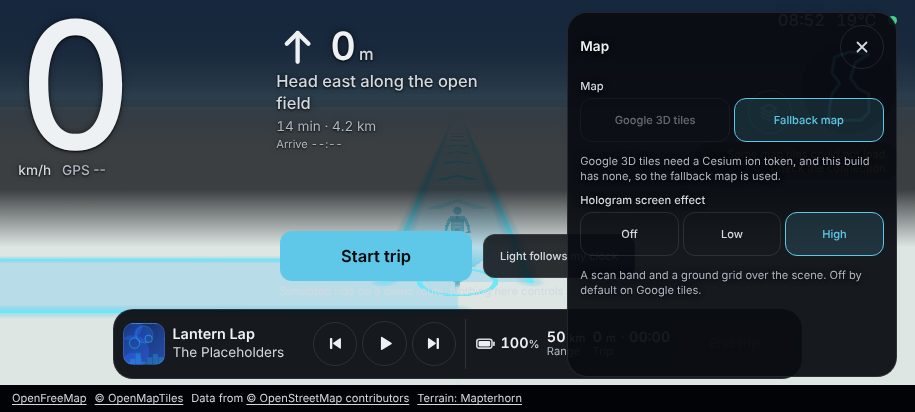
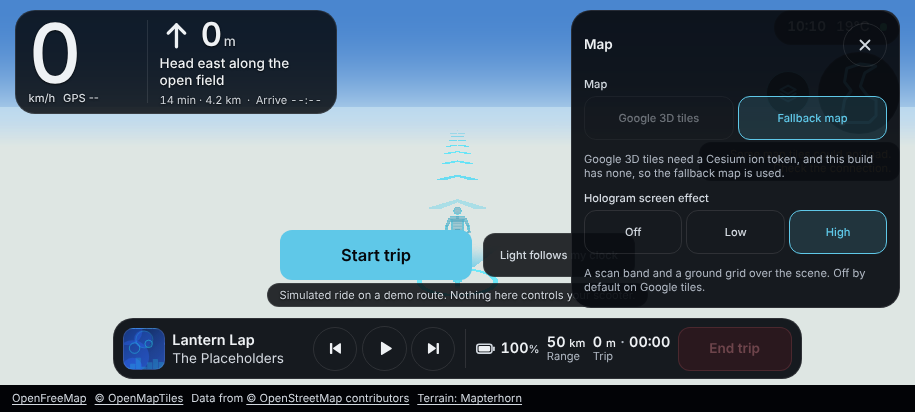
docs: describe the HUD redesign, the plates and the readability checks, and re-shoot the screenshots
DESIGN_SYSTEM, ARCHITECTURE and CHANGELOG describe the plates in place of the scrim, the removed vignette and haze, the new type sizes, HudFrame, the dev preview HUD and the extended layout check. The screenshots in docs/images were re-shot from procedural scenes and the fallback map without tiles, with new hud-preview images. No speed limit sign was added because there is no speed limit data in milestone 1. The redesign used Opus 5.5 at the maintainer's request as a one-off exception to Amendment 2.

diff --git a/docs/DESIGN_SYSTEM.md b/docs/DESIGN_SYSTEM.md
@@ -6,8 +6,8 @@ The tokens live in [`packages/ui-tokens`](../packages/ui-tokens). `src/tokens.ts
 
 ## Principles
 
-1. **The world leads, the HUD supports.** The scene is the whole screen. The HUD is bare text and a few flat panels. If something competes with the road, make it smaller or quieter.
-2. **Glanceable first.** The vehicle speed is the biggest thing on the screen, set as a bare number with tight letter spacing. Distance to the next turn is next. Secondary text is smaller and in muted grey.
+1. **The world leads, the HUD supports.** The scene is the whole screen and nothing darkens it: no scrim, no gradient across the screen, no vignette. The HUD is a few small pieces of dark glass, each only as big as what it holds, at the corners and along the bottom. If something competes with the road, make it smaller or quieter.
+2. **Glanceable first.** The vehicle speed is the biggest number on the screen, set with tight letter spacing. Distance to the next turn is next. Secondary text is smaller and in muted grey.
 3. **One accent.** Soft cyan (`cyan`, `#5fc8e8`) is the only non-warning accent: the route on the minimap, progress, active states and the heading. It is never used as decoration.
 4. **Colour has a job.** Amber and red are allowed for warnings and errors (Amendment 6). Amber (`caution`, a muted amber that suits the dark theme) is for warnings: the telemetry lost note, the GPS fallback label, offline, low battery and safety notices. Red is for errors and for End trip, as a dark red fill, a muted red outline and soft red text. Green is only the small online dot. Never use amber or red as decoration.
 5. **No glow, no heavy blur on the HUD.** HUD panels are flat, about 85 percent opaque, with a hairline border and no backdrop blur, so they stay cheap on a mid-range phone. Glow tokens are kept for the 3D scene's route and heading marker, and for the keyboard focus ring.
@@ -41,7 +41,7 @@ The tokens live in [`packages/ui-tokens`](../packages/ui-tokens). `src/tokens.ts
 
 The default Tailwind palette is switched off, so classes like `bg-red-500` do not exist. Use the token names above, for example `bg-night-950`, `text-text-secondary` or `border-glass-border`.
 
-Contrast on `night-950` (WCAG 2): `text` 17.8:1, `text-secondary` 14.2:1, `text-muted` 10.1:1, `cyan` 10.5:1, `caution` 10.3:1, `danger` 8.2:1. On `night-800` panels they are 16.0, 12.8, 9.1, 9.4, 9.2 and 7.4. All pass AA for body text. Dark text on `cyan` buttons is 10.5:1. The secondary and muted greys were brightened (from `#a4acb7` and `#747d89`) after a device test showed them unreadable on a bright sky. Text drawn straight on the 3D scene is also held up by the top scrim and a text shadow, see "Text on the scene" below.
+Contrast on `night-950` (WCAG 2): `text` 17.8:1, `text-secondary` 14.2:1, `text-muted` 10.1:1, `cyan` 10.5:1, `caution` 10.3:1, `danger` 8.2:1. On `night-800` panels they are 16.0, 12.8, 9.1, 9.4, 9.2 and 7.4. All pass AA for body text. Dark text on `cyan` buttons is 10.5:1. The secondary and muted greys were brightened (from `#a4acb7` and `#747d89`) after a device test showed them unreadable on a bright sky. Text over the 3D scene sits on its own small plate, see "Text on the scene" below.
 
 ## Typography
 
@@ -57,14 +57,14 @@ Waylit uses the platform's system UI font (`font.sans`). It is legible at small 
 | `2xl` | `text-2xl` | 1.953rem | Large readouts on ordinary pages |
 | `3xl` | `text-3xl` | 2.441rem | Secondary readouts |
 | `display` | `text-display` | 4rem | Page titles on the home screen |
-| `speed` | `text-speed` | `min(43dvh, 21vw)` | Vehicle speed on the riding screen |
-| `hudTurn` | `text-hud-turn` | `clamp(1.5rem, 9.5dvh, 3.5rem)` | Distance to the next turn |
+| `speed` | `text-speed` | `clamp(3rem, 20dvh, 6.5rem)` | Vehicle speed on the riding screen |
+| `hudTurn` | `text-hud-turn` | `clamp(1.25rem, 8dvh, 2.5rem)` | Distance to the next turn |
 | `hudLg` | `text-hud-lg` | `clamp(0.875rem, 4dvh, 1.3rem)` | Street instruction, clock, temperature |
 | `hudDock` | `text-hud-dock` | `clamp(0.8rem, min(3.5dvh, 1.9vw), 1.2rem)` | Values in the dock, which is the tightest row |
 | `hudMd` | `text-hud-md` | `clamp(0.75rem, 3.3dvh, 1.05rem)` | Time and distance left, labels, speed unit |
 | `hudSm` | `text-hud-sm` | `clamp(0.6875rem, 2.7dvh, 0.875rem)` | Captions, arrival time, credits |
 
-The base scale is a major third (1.25) from a 1rem base. The riding screen uses the fluid `speed` and `hud*` sizes instead, which scale with the viewport (`dvh` and `vw`) so one set of values fits every landscape phone without clipping. At 915 by 412 the speed is about 177 px tall type, and its digits are about 30 percent of the screen height.
+The base scale is a major third (1.25) from a 1rem base. The riding screen uses the fluid `speed` and `hud*` sizes instead, which scale with the viewport (`dvh` and `vw`) so one set of values fits every landscape phone without clipping. At 915 by 412 the speed is about 82 px tall type, and its digits are about 15 percent of the screen height: large enough for a glance, small enough to leave the scene clear (it was about 30 percent before the redesign of 2026-11-26).
 
 Line heights are `tight` (1.1) for display numbers, `snug` (1.3) for headings and `normal` (1.5) for body. Weights are 400, 500, 600 and 700. The speed number is weight 500 with `tracking-speed` (-0.05em) and a line height under 1. Other display text uses `tracking-display` (-0.02em). Use `tabular-nums` on any number that updates live, so digits do not jump.
 
@@ -102,23 +102,24 @@ The HUD uses no blur and no glow. The `.wl-glass` component class is a flat tran
 
 ## Text on the scene
 
-The speed, turn, time and temperature are bare text on the 3D scene, which can be a bright blue sky or sunlit pale ground. Three flat, cheap measures keep them readable. There is no blur and no filter, so they cost almost nothing on a mid range phone.
+The scene can be a bright blue sky, sunlit pale ground or a dark street, and it is never darkened to help the HUD. There is no screen wide scrim, no gradient across the screen and no vignette (a rider found the old daylight scrim, a dark gradient over the top 60 percent of the screen, jarring). Readability comes only from local aids, each the size of the thing it helps:
 
 | Token | CSS variable | Value | Use |
 |---|---|---|---|
-| `scrim.night` | `--wl-scrim-night` | `0.35` | Strength of the top scrim in the dark |
-| `scrim.day` | `--wl-scrim-day` | `0.75` | Strength in full daylight |
-| `scrim.solid` | `--wl-scrim-solid` | `46dvh` | The scrim is at full strength down to here |
-| `scrim.fade` | `--wl-scrim-fade` | `60dvh` | and fades to nothing here |
-| `shadow.text` | `--wl-shadow-text` | `0 1px 2px rgba(0, 0, 0, 0.85), 0 0 6px rgba(0, 0, 0, 0.55)` | A tight dark outline plus a soft halo on text over the scene |
+| `plate.night` | `--wl-plate-night` | `0.74` | Opacity of a text plate in the dark |
+| `plate.day` | `--wl-plate-day` | `0.84` | Opacity in full daylight |
+| `shadow.text` | `--wl-shadow-text` | `0 0 1px rgba(0, 0, 0, 0.9), 0 1px 2px rgba(0, 0, 0, 0.6)` | A tight edge on glyphs, two pixels at most |
 
-- **The scrim** (`.wl-scrim`, one element between the scene and the HUD) is a linear gradient from the `night950` colour to transparent behind the top of the screen. Its strength is `night + (day - night) * --wl-daylight`, so it is faintest in the dark and strongest in full sun, and it follows the sun through dawn and dusk. It is solid down to 46 percent of the screen height because the speed unit and GPS label sit at 41 to 44 percent. It passes touches through.
-- **The shadow** (`.wl-hud-text`) is on the top left navigation text and the top right status text. It is never used on panels.
-- **Contrast.** `apps/web/src/hud/contrast.test.ts` computes the WCAG ratio of every piece of top text, at its lowest edge, behind the scrim, against the day palette and sky colours from the scene lighting, a pale sunlit photographic ground, pure white and a cyan edge glow at night. Small text must reach 4.5:1 and large text (the speed and the turn distance) 3:1. The ground sample is an assumed worst case, and has not been measured on a real Google tile screenshot.
+- **Plates** (`.wl-plate`). Each group of text over the scene sits on its own small plate of dark glass (`night950`), sized to the text: the speed and turn card top left, the status chip top right, the start caption, the map note and the dev overlay. The map settings button also sits on a plate so its icon reads on a bright sky. The opacity is `night + (day - night) * --wl-daylight`, one flat fill with a hairline border, no blur and no gradient, so it costs almost nothing on a mid range phone. The plate is a little more solid in sunlight and a little lighter at night.
+- **Glass** (`.wl-glass`). The dock, the minimap and the map settings sheet keep their own glass fill, which covers only the panel itself.
+- **Text edge** (`.wl-hud-text`). A tight dark edge on the glyphs of plate text keeps them crisp in glare. It is never used as a backdrop.
+- **Adaptive colour.** Text over the scene uses only `text`, `text-secondary`, `caution` and `cyan`. Muted grey is for panels only. The turn arrow turns cyan when the turn is imminent.
+- **Contrast.** The plate's floor is chosen so that every text colour allowed on it passes WCAG AA over pure white, which is brighter than anything the scene can draw. `apps/web/src/hud/readability.test.ts` checks every text colour at daylight 0, 0.25, 0.5, 0.75 and 1 against pure white, pure black, the day palette and sky, a pale sunlit photographic ground (#e8e4d8, an assumed worst case, not measured on a real Google tile screenshot), the night palette and the bright hologram cyan, and the dock text on night and day glass. The layout check (`apps/web/scripts/layout-check.mjs`) does the same in Chrome with the colours the browser computed, while riding, at five sizes. The lowest ratios (night plate over pure white) are: `text` 8.2:1, `text-secondary` 6.5:1, `caution` 4.7:1 and `cyan` 4.8:1. Over pure black they are all above 10:1.
+- **Guard.** `apps/web/src/hud/no-screen-darkening.test.ts` fails if a scrim, a screen wide gradient, a full screen fill, a vignette or a wide text shadow comes back, in the CSS, the components, the tokens or the scene's post process. The layout check also fails if anything but the scene, the credits strip or an opened dialog paints more than 20 percent of the screen or a band across it.
 
 ## Futuristic look
 
-The 3D scene has a screen space colour grade and edge glow (see [ARCHITECTURE.md](ARCHITECTURE.md), "Visual effects and the Google terms"). It keeps the palette: deep navy and teal, controlled contrast, slight desaturation, with the cyan accent as the edge glow and nothing else coloured. Day is cooler and cleaner, sunset a warm magenta to cyan split tone, night deep blue with glowing cyan edges. It is a HUD-free effect on the scene only, the HUD palette does not change. Original screenshots from the procedural preview scene (not Google tiles): [noon](images/fx-preview-noon.png), [sunset](images/fx-preview-sunset.png), [night](images/fx-preview-night.png) and [night with the effect off](images/fx-preview-night-off.png).
+The 3D scene has a screen space colour grade and edge glow (see [ARCHITECTURE.md](ARCHITECTURE.md), "Visual effects and the Google terms"). It keeps the palette: deep navy and teal, controlled contrast, slight desaturation, with the cyan accent as the edge glow and nothing else coloured. It never darkens by screen position: the vignette and the horizon haze band were removed in the HUD redesign, so the corners and the middle of the picture stay as bright as the scene. With the effect on, night photographic tiles are dimmed to about a third and tinted cool, never crushed toward black. Day is cooler and cleaner, sunset a warm magenta to cyan split tone, night deep blue with glowing cyan edges. It is a HUD-free effect on the scene only, the HUD palette does not change. Original screenshots from the procedural preview scene (not Google tiles): [noon](images/fx-preview-noon.png), [sunset](images/fx-preview-sunset.png), [night](images/fx-preview-night.png) and [night with the effect off](images/fx-preview-night-off.png).
 
 ## Hologram guidance
 
@@ -152,14 +153,14 @@ The riding screen is landscape first. Phones in landscape can be as short as 360
 
 ## Riding screen layout
 
-Built in `apps/web/src/app/ride/page.tsx` and `apps/web/src/hud/`. The scene fills the whole screen and the HUD floats on it. There are no solid bars. The HUD is a grid of three rows: the top area (which grows), the dock, and the credits strip. It was checked at 915 by 412 (Samsung Galaxy A35 in landscape, in CSS pixels), 915 by 422 (the A35's 2340 by 1080 pixels at its device pixel ratio, which is the fullscreen height), 740 by 360, 667 by 375, 800 by 360 and 1280 by 720, in the start, riding, telemetry lost and summary states.
+Built in `apps/web/src/app/ride/page.tsx`, with the layout in `apps/web/src/hud/HudFrame.tsx` (shared with the dev preview) and the parts in `apps/web/src/hud/`. The scene fills the whole screen and the HUD floats on it. There are no solid bars and no darkening layer. The HUD is a grid of three rows: the top area (which grows), the dock, and the credits strip. It was checked at 915 by 412 (Samsung Galaxy A35 in landscape, in CSS pixels), 915 by 422 (the A35's 2340 by 1080 pixels at its device pixel ratio, which is the fullscreen height), 740 by 360, 667 by 375, 800 by 360 and 1280 by 720, in the start, riding, telemetry lost and summary states.
 
 | Area | Content |
 |---|---|
-| Top left, no card | The vehicle speed as a bare, very large number (the biggest element, digits about 30 percent of the screen height). Under it, small: `km/h` and `GPS 17`, the GPS speed shown separately. Beside it: the next turn arrow, the distance to the turn in large type, the street instruction, then a smaller grey `9 min · 2.4 km` (time and distance left) and a small `Arrive 14:35` |
-| Top right | Local time and temperature (mock weather) as plain text, a small connectivity dot (green online, amber offline), and a round plain SVG minimap about 84 px across at 800 wide: route line, position dot and a heading cone. No tiles and no map data |
-| Centre | Clear for the 3D scene. A dark gradient until task 8. The start prompt (the Start trip button, a "Light follows my clock" or "Real sun at the route" switch beside it, and a caption) appears low in the clear middle before a trip, and the dev controls (development and `?dev=1` only) sit below it. They are always one row of 44 px buttons, so nothing overlaps at any landscape size, and the Time button swaps that row for the time override page (Back, Live, Dawn, Noon, Sunset, Night, a time slider and a date field) |
-| Dock | One joined glass dock, 20 px corners, sized to its content and centred at the bottom with margin on both sides (never wider than 80 percent of the screen, or 42rem on small phones where the content needs it), with a hairline divider between two halves. Left: artwork tile, title and artist, previous, play or pause, next, and a thin progress line along the bottom of the half. Right: battery icon and percent, range, trip distance and time (`3.2 km · 12:40`), and End trip at the far right |
+| Top left, one plate | The speed and the next turn on one small plate of dark glass, sized to the text. Left: the vehicle speed (the biggest number, digits about 15 percent of the screen height), and under it, small: `km/h` and `GPS 17`, the GPS speed shown separately, and the amber telemetry note when it applies. A hairline divider. Right: the turn arrow (cyan when the turn is imminent) and the distance to the turn, the street instruction, then one quiet line with the time and distance left and `Arrive 14:35` |
+| Top right | A status chip on a plate: local time, mock temperature and a small connectivity dot (green online, amber offline). Under it, the map settings button on its own plate beside a round plain SVG minimap about 82 px across at 915 by 412: route line, position dot and a heading cone. No tiles and no map data. The dev overlay and the quiet map note sit under the minimap and stop above the centre row |
+| Centre | Clear for the 3D scene, with nothing drawn over it. The start prompt (the Start trip button, a "Light follows my clock" or "Real sun at the route" switch beside it, and a caption) appears low in the clear middle before a trip, and the dev controls (development and `?dev=1` only) sit below it. They are always one row of 44 px buttons, so nothing overlaps at any landscape size, and the Time button swaps that row for the time override page (Back, Live, Dawn, Noon, Sunset, Night, a time slider and a date field) |
+| Dock | One joined glass dock, 20 px corners, about 15 percent of the screen height, sized to its content and centred at the bottom with margin on both sides (never wider than 80 percent of the screen, or 42rem on small phones where the content needs it), with a hairline divider between two halves. Left: artwork tile, title and artist, previous, play or pause, next, and a thin progress line along the bottom of the half. Right: battery icon and percent, range, trip distance and time (`3.2 km · 12:40`), and End trip at the far right |
 | Credits strip | The reserved credits row below the dock: a darker band that nothing overlaps, holds the scene's attributions: the Google logo, data credits and Cesium ion logo with CesiumJS, or OpenFreeMap, OpenMapTiles and OpenStreetMap contributors with the fallback. The scene renders them into the strip and the HUD never covers it. Its minimum height follows the screen height (`clamp(1.5rem, 6.5dvh, 2rem)`) and grows with its content. A faint placeholder label shows only in development or with `?dev=1`, until the scene is ready |
 
 Rules for this screen:
@@ -170,15 +171,19 @@ Rules for this screen:
 - **Speed guard.** Above 8 km/h the media controls and End trip need a hold (0.6 s, and 0.9 s for End trip). The guard switches off below 5 km/h.
 - **Hold feedback that does not need animation.** While the guard is on, each media button shows a ring track that says a hold is needed. While a button is held the ring fills over the hold time, the button takes a cyan edge and a stronger fill, and the artist line says "Keep holding". End trip says "Hold to end", grows a red fill while held, and says "Keep holding". With reduced motion the ring and fill skip the growth and show complete as soon as the hold starts, so the filled state and the caption are still there.
 - **Missing data shows dashes**, never zero. An amber note with a small icon under the speed says when GPS is standing in for the scooter, and the GPS speed label turns amber.
-- **Plain text, no cards.** The speed, turn, time and temperature have no panel behind them. Only the dock, the minimap and the dev controls are panels.
+- **Small glass, never a backdrop.** The speed and turn card, the status chip and the map settings button sit on plates sized to their content, and the dock, minimap and dev controls are glass panels. Nothing paints across the screen apart from the credits strip.
 - **Minimap.** Plain drawn route only. While riding it follows the rider with the heading up, shows a clear heading cone (a 34 unit wedge opening 32 degrees either side, a gradient fill from 80 to 20 percent cyan with an outline), and a small N on the rim. Before and after a trip it shows the whole route inside the circle, north up.
-- **Contrast.** The speed uses `text` (17.8:1 on `night-950`). The top text sits on the daylight driven scrim with a text shadow (see "Text on the scene"). The dock is more solid in daylight and fades smoothly with the sun. Sunlight readability on a real screen still needs a check on the phone.
+- **Contrast.** The top text sits on its plate (see "Text on the scene") and passes AA over pure white. The dock is more solid in daylight and fades smoothly with the sun. Sunlight readability on a real screen still needs a check on the phone.
 - **Fluid type.** Sizes use `clamp` with `dvh` and `vw` (see Typography). The dock values also scale with width, because the dock is the tightest row. The dock is sized to its content. The track title block has a fixed fluid width (about 15 percent of the screen width, at least 7.75 rem), so the dock does not change width from track to track, and at 667 by 375 the longest mock title still fits whole and a long artist line ends in an ellipsis. Neither pushes the media buttons or End trip off the screen, and nothing else clips.
-- **Reduced motion.** See hold feedback above. The offline pulse stops. Nothing else on this screen animates.
+- **Motion.** The plates and the dock settle in when the screen appears (`.wl-enter`: a 360 ms fade and a 6 pixel rise, the dock 80 ms later), and the turn arrow fades to cyan when the turn is imminent.
+- **Reduced motion.** See hold feedback above. The offline pulse and the entrance stop. Nothing else on this screen animates.
+- **No speed limit sign yet.** There is no road speed limit data in milestone 1 (speed zones are phase 4, out of scope), so no sign is drawn and none is invented. A small sign under the speed is a later item for when speed zone data exists.
 - **Copy.** Sentence case, no emoji, no em dashes. Speed in km/h, distances under 1 km in metres rounded to 10 m, longer ones in km with one decimal, 24 hour time.
 - **Variants.** `short:` is for screens up to 520 px tall and `tight:` is for up to 400 px tall. The riding screen no longer needs them because its sizes are fluid, and they remain for other screens.
 
-Screenshots of the screen, taken from a production build with headless Chrome, are in [`docs/images/`](images/): [riding at 915 by 412](images/ride-915x412-riding.png), [start at 915 by 412](images/ride-915x412-start.png), [telemetry lost at 915 by 412](images/ride-915x412-fallback.png) (taken with `?dev=1`, so the dev controls show) and [riding at 1280 by 720](images/ride-1280x720-riding.png) and [the trip summary at 915 by 412](images/ride-915x412-summary.png). The same screen with the dev time override at [dawn](images/ride-915x412-dawn.png), [noon](images/ride-915x412-noon.png), [sunset](images/ride-915x412-sunset.png) and [night](images/ride-915x412-night.png), taken at 915 by 412 with `?dev=1&time=dawn` and so on, for Berlin on 25 November. Day shows the dock at its most solid and a bluer scene, sunset and dawn show the warm glow at the horizon and a mid fill, and night is the darkest with the most see-through dock.
+Screenshots of the screen, taken from a production build with headless Chrome, are in [`docs/images/`](images/): [riding at 915 by 412](images/ride-915x412-riding.png), [start at 915 by 412](images/ride-915x412-start.png), [telemetry lost at 915 by 412](images/ride-915x412-fallback.png) (taken with `?dev=1`, so the dev controls show) and [riding at 1280 by 720](images/ride-1280x720-riding.png) and [the trip summary at 915 by 412](images/ride-915x412-summary.png). The same screen with the dev time override at [dawn](images/ride-915x412-dawn.png), [noon](images/ride-915x412-noon.png), [sunset](images/ride-915x412-sunset.png) and [night](images/ride-915x412-night.png), taken at 915 by 412 with `?dev=1&time=dawn` and so on, for Berlin on 25 November. Day shows the dock at its most solid and a bluer scene, sunset and dawn show the warm glow at the horizon and a mid fill, and night is the darkest with the most see-through dock. These were re-shot for the HUD redesign on 26 November 2026. In headless Chrome the fallback map's tiles do not load, so the scene there is the sky, the light and the hologram only.
+
+The redesigned HUD over the procedural preview scene (`/dev/holo-preview?dev=1&hud=1&engine=cesium|maplibre&time=...&along=110`, no Google tiles and no network), with the real `HudFrame` and panels and fixed mock values: CesiumJS at [noon](images/hud-preview-cesium-noon.png), [sunset](images/hud-preview-cesium-sunset.png) and [night](images/hud-preview-cesium-night.png), the same noon with [the effect off](images/hud-preview-cesium-noon-fx-off.png), and MapLibre at [noon](images/hud-preview-maplibre-noon.png), [sunset](images/hud-preview-maplibre-sunset.png) and [night](images/hud-preview-maplibre-night.png). The pale noon buildings are the worst case for the top text, and the scene stays clear to every edge.
 
 ## Using the tokens
 

diff --git a/docs/ARCHITECTURE.md b/docs/ARCHITECTURE.md
@@ -49,14 +49,17 @@ apps/web/src/
     use-ride.ts         React hook over the store
     guard.ts            Speed guard thresholds and the hold times
   hud/
-    NavigationPanel     top left, no card: vehicle speed as a huge bare number, GPS speed and unit under it,
-                        next turn arrow, distance, street instruction, time and distance left, arrival
-    StatusCluster       top right: local time, mock temperature, connectivity dot (plain text, no panel)
+    HudFrame            the layout only (top left, top right, centre, dock, credits rows), shared by the
+                        ride page and the dev preview. Paints no backdrop of its own
+    NavigationPanel     top left, one small plate: speed, GPS speed and unit, a divider, then the turn
+                        arrow (cyan when imminent), distance, street, time and distance left, arrival
+    StatusCluster       top right: a status chip on a plate with local time, mock temperature and the dot
+    readability.ts      pure: plate opacity by daylight and the WCAG maths for the contrast tests
     Minimap             top right: round plain SVG route line, position dot, heading cone, N. No tiles
     Dock                one joined glass dock, content sized and centred, with a hairline divider between its two halves
     MediaPanel          dock, left half: artwork, title, artist, previous, play or pause, next, progress line
     VehiclePanel        dock, right half: battery, range, trip distance and time, End trip
-    SceneSlot           the gradient scene placeholder and the reserved credits strip
+    SceneSlot           the scene placeholder (behind the 3D canvas) and the reserved credits strip
     HoldButton          hold to press control with ring or fill feedback and a static held state
     DevControls         dev only: playback speed, lose scooter data, and a Time page that overrides the date and time
     daylight.ts         pure: daylight state from position and time, time override presets and local time helpers
@@ -68,7 +71,7 @@ apps/web/src/
 
 How it fits together:
 
-- **Screen grid.** The scene is `absolute inset-0` and the HUD sits on it in one CSS grid with three rows: the top area (speed, turn, status and minimap, and the free centre), the dock, and the credits strip. The credits strip is its own row, a darker band, so no panel can overlap it. The dock row is a flex container that centres the dock, which is sized to its content and capped at 80 percent of the screen width (or 42rem on small phones, where its content needs the room), so it floats with a margin on both sides. It is the only thing along the bottom. The track title block has a fixed fluid width, so the dock does not change width from track to track. The credits strip stays full width. In the centre column only the start prompt, the trip summary and the dev controls are ever drawn.
+- **Screen grid.** The scene is `absolute inset-0` and the HUD sits on it in one CSS grid with three rows (`HudFrame`): the top area (speed, turn, status and minimap, and the free centre), the dock, and the credits strip. The credits strip is its own row, a darker band, so no panel can overlap it. The dock row is a flex container that centres the dock, which is sized to its content and capped at 80 percent of the screen width (or 42rem on small phones, where its content needs the room), so it floats with a margin on both sides. It is the only thing along the bottom. The track title block has a fixed fluid width, so the dock does not change width from track to track. The credits strip stays full width. In the centre column only the start prompt, the trip summary and the dev controls are ever drawn. Nothing darkens the scene: there is no scrim layer, and each HUD group brings its own small plate or glass panel (see DESIGN_SYSTEM.md, "Text on the scene").
 - **Day and night.** The page works out a `DaylightState` (`hud/daylight.ts`) from the sun at the rider's position and the current time: the sun's elevation, azimuth and phase from `getSolarState` in `@waylit/core`, a smooth `factor` from 0 (dark) to 1 (day) from `daylightFactor` (a smoothstep from -6 to +6 degrees of sun elevation), and a `warmth` value that peaks at sunrise and sunset. The position is the simulated GPS fix while riding and the start of the demo route otherwise (real GPS later). The sun moment is chosen by `sunMoment` in `@waylit/core` (see "Which moment the sun is worked out for" below): the device clock reading applied at the route as local solar time by default, the real instant with the "real sun" switch, and the dev override over both. The page puts `--wl-daylight` and `--wl-warmth` on the screen root, plus `data-daylight` (true when the factor is one half or more) and `data-sun-phase`. CSS blends the dock fill between `glassNight` and `glassDay` with `color-mix`, so it fades through dawn and dusk instead of switching at a fixed hour, and tints the placeholder scene. The old fixed 07:00 to 19:00 rule is gone. Before the page has loaded there is no time and the state is night, so the server render and the first client render match.
 - **Daylight for the 3D scene.** `DaylightProvider` makes the same `DaylightState` available to everything on the screen, and `useDaylight()` reads it. Task 8 (3D lighting) should read the sun's `elevationDegrees`, `azimuthDegrees` and `phase`, the `factor` and the `warmth` from it, and must not work out its own time of day. `overridden` says when a dev time override is in force.
 - **Data flow.** `RideSession.tick()` advances the GPS simulator, ticks the mock vehicle, projects the smoothed GPS fix onto the route (`projectOntoRoute`) to get the distance along it, and turns that into the next instruction, distance to it, remaining distance and time and arrival (`computeProgress`). Speed comes from `selectSpeed`. Trip distance and duration come from `TripTracker`. The HUD only reads the snapshot.
@@ -139,7 +142,7 @@ The app builds and runs without a token. Only one attempt is made with CesiumJS.
 
 ### Lighting
 
-The scene follows the solar daylight state that already drives the HUD, including the developer time override. `lightingParameters` returns sun direction, light intensity, a tint for the photographic tiles, sky colours and a map palette for the fallback. Photorealistic tiles carry baked daylight, so night and sunset can be produced by tinting them with an unlit custom shader rather than by relighting them. That tile shader (the night tint and the warm street light lift) recolours the tile imagery, so it is created only when the visual effect is on (`?fx=low` or `?fx=high`, or `GOOGLE_FX_ON_BY_DEFAULT`). With the effect off, which is the default in Google mode, no custom shader or post process is applied to the tiles and they are drawn as Google supplies them; only the sky atmosphere and the scene background follow the daylight state. Parameters carry a quantised `key` so providers skip repaints for tiny changes.
+The scene follows the solar daylight state that already drives the HUD, including the developer time override. `lightingParameters` returns sun direction, light intensity, a tint for the photographic tiles, sky colours and a map palette for the fallback. Photorealistic tiles carry baked daylight, so night and sunset can be produced by tinting them with an unlit custom shader rather than by relighting them. That tile shader (the night tint and the warm street light lift) recolours the tile imagery. The night tint dims the tiles to about a third and cools them, and never lower, so a night street stays readable instead of being crushed toward black (a test holds the floor). It is created only when the visual effect is on (`?fx=low` or `?fx=high`, or `GOOGLE_FX_ON_BY_DEFAULT`). With the effect off, which is the default in Google mode, no custom shader or post process is applied to the tiles and they are drawn as Google supplies them; only the sky atmosphere and the scene background follow the daylight state. Parameters carry a quantised `key` so providers skip repaints for tiny changes.
 
 ### Performance
 
@@ -161,7 +164,7 @@ apps/web/src/app/dev/fx-preview/  dev page: a procedural scene through the real 
 ```
 
 - **One pass, colour only.** The shader reads only `colorTexture`. There is no depth texture, no `scene.pick`, no picking, no depth based fog or edge detection, and no geometry, so nothing about the height or shape of the Google tiles is read or recorded. A unit test fails if the shader source mentions depth, picking or `czm_` inputs, has a loop or a branch, or reads more textures than its variant allows (3 in the cheap variant, 9 in the full one).
-- **The look.** A colour grade (slight desaturation, controlled contrast, deep navy darks, cool lights), a cyan Sobel edge glow on the picture's luminance (strongest at night, where the tint makes edges faint and the gain is raised), a horizon haze band and a vignette from screen coordinates, and in the full variant a very faint scanline. Day is cooler and cleaner, sunset has a warm magenta to cyan split tone, night is deep blue with glowing cyan edges. The palette stays dark and quiet with cyan as the only accent.
+- **The look.** A colour grade (slight desaturation, controlled contrast, deep navy darks, cool lights), a cyan Sobel edge glow on the picture's luminance (strongest at night, where the tint makes edges faint and the gain is raised), the hologram scan band and ground grid, and in the full variant a very faint scanline. There is no vignette and no horizon haze band (both were removed in the HUD redesign so the edges and the middle stay clear), and tests fail if a darkening that depends on the screen position comes back. Day is cooler and cleaner, sunset has a warm magenta to cyan split tone, night is deep blue with glowing cyan edges. The palette stays dark and quiet with cyan as the only accent.
 - **Parameters come from the daylight state.** `fxParameters(lighting, level)` maps the daylight factor and the warmth to every strength (tested). Levels are `high` (full Sobel, scanline), `low` (two neighbour reads, no scanline) and `off` (the stage is removed).
 - **Adaptive.** `FxGovernor` records frame times through the same `FrameStats` as the overlay and steps down from high to low to off when the median frame rate since the last change is below 30 fps (with the frame limiter's 2 ms tolerance, so a steady 30 fps is not slow), after at least 90 frames and 4 seconds at the level. It only judges while riding (the start screen is slow on purpose), never steps back up, and is switched off by an explicit `?fx=`. The effect is suspended while the tab is hidden or the ride has ended.
 - **Overrides.** `?fx=off`, `?fx=low` and `?fx=high` work in every build and pin the level. The level shows in the dev overlay.
@@ -216,7 +219,7 @@ packages/map-provider/src/options.ts    selectProvider(preference), resolveTunin
 - **Quota.** The sheet says that Google 3D tiles use Cesium ion requests (about 1,000 root requests per month on the Community plan) and that each switch to Google uses one.
 - **No token.** The Google option is disabled with a plain sentence (this build has no Cesium ion token, so the fallback map is used). It is not an error and nothing is logged.
 - **Hold to press.** The button is a `HoldButton`: above the speed guard (8 km/h) it needs the same 600 ms hold as the media buttons, with the ring. The sheet closes by itself the moment the guard turns on. Inside the sheet the choices are plain buttons, at least 44 pixels tall, because the sheet can only be open when the guard is off.
-- **Layout.** The button sits in the right column beside the minimap and adds no height there. The sheet is a fixed panel on the right, at most 36 percent of the width, that stops above the credits strip (`--wl-credits-clearance`). `apps/web/scripts/layout-check.mjs` checks the button size, that the open sheet never covers the credits strip, and that it does not overlap the speed or turn text.
+- **Layout.** The button sits in the right column beside the minimap and adds no height there. The sheet is a fixed panel on the right, at most 36 percent of the width, only as tall as its content and never taller than the space above the credits strip (`--wl-credits-clearance`). `apps/web/scripts/layout-check.mjs` checks the button size, that the open sheet never covers the credits strip, and that it does not overlap the speed or turn text.
 
 ### Static assets and caching
 
@@ -226,7 +229,7 @@ CesiumJS needs its workers and assets served as files. `apps/web/scripts/copy-ma
 
 The scene renders its own attributions into the credits strip under the dock, which the HUD never covers. CesiumJS shows the Google logo, the data credits Google requires and the Cesium ion logo. The fallback shows OpenFreeMap, OpenMapTiles and "© OpenStreetMap contributors", plus a Mapterhorn credit when terrain is on. The minimap is a plain drawn route and never contains OpenStreetMap content.
 
-Nothing may cover the strip, including the first run safety notice. The notice is fixed to the bottom of the page outside the riding screen's layout, so the riding screen publishes the strip's height as `--wl-credits-clearance` on the document root (`useCreditsClearance`) and the notice sits above it and caps its height with it. The 3D scene also does not start until the notice is acknowledged, so no tile credits are on screen behind an open notice. `apps/web/scripts/layout-check.mjs` (a dependency free headless Chrome script, run against a running build) probes the strip at 915x412, 740x360, 667x375, 800x360 and 1280x720 with the notice open and closed, with and without `?dev=1`, and fails if anything covers it or if any HUD parts overlap. With `FAKE_CREDITS=1` it also draws Cesium style credits, adds a 640 pixel wide run, and checks they stay on one line with both logos visible.
+Nothing may cover the strip, including the first run safety notice. The notice is fixed to the bottom of the page outside the riding screen's layout, so the riding screen publishes the strip's height as `--wl-credits-clearance` on the document root (`useCreditsClearance`) and the notice sits above it and caps its height with it. The 3D scene also does not start until the notice is acknowledged, so no tile credits are on screen behind an open notice. `apps/web/scripts/layout-check.mjs` (a dependency free headless Chrome script, run against a running build) probes the strip at 915x412, 740x360, 667x375, 800x360 and 1280x720 with the notice open and closed, with and without `?dev=1`, and fails if anything covers it or if any HUD parts overlap. It then starts a trip and checks the riding screen too: no overlaps, no element other than the scene, the credits strip or an opened dialog painting more than 20 percent of the screen or a band across it (so no scrim can come back), and WCAG AA for every piece of text over the scene with its own plate composited over pure white and pure black, from the colours the browser computed. The dev runs use `?time=night`, where the plate is lightest, and the script prints the lowest ratio it saw for each text. With `FAKE_CREDITS=1` it also draws Cesium style credits, adds a 640 pixel wide run, and checks they stay on one line with both logos visible.
 
 Google asks for its credits on one line. The credit text is kept to one line, and when it does not fit it moves behind Cesium's "Data attribution" link (`tileset.showCreditsOnScreen` is turned off by `watchCreditsFit`, with hysteresis so it does not flicker, and turned on again when the strip is clearly wider). The Google and Cesium ion logos are never part of that and always stay. This was checked with a stand in for Cesium's credit markup, not with live Google credits (the tile hosts are blocked in the build sandbox), so the owner should look at it on the phone.
 

diff --git a/CHANGELOG.md b/CHANGELOG.md
@@ -6,6 +6,9 @@ All notable changes to this project are recorded here. The format follows [Keep 
 
 ### Added
 
+- HUD redesign tools: `HudFrame` (the riding screen layout without data, shared by the ride page and the dev preview), `?hud=1` on `/dev/holo-preview` to draw the real HUD with fixed mock values over the procedural scene (no Google tiles, no network), `readability.ts` with the plate opacity and the WCAG maths, and new original screenshots `docs/images/hud-preview-*.png`.
+- Tests: `readability.test.ts` (every text colour over the scene on its plate, at five daylight levels, against pure white, pure black, the day and night palettes, a sunlit photographic ground and the hologram cyan, plus the dock text on its glass) and `no-screen-darkening.test.ts`, which fails if a scrim, a screen wide gradient, a full screen fill, a vignette, a scrim token or a wide text shadow comes back. New render tests for the plates, the frame and the turn arrow. The layout check now also starts a trip and checks the riding screen for overlaps, for any element painting more than 20 percent of the screen or a band across it, and for WCAG AA of the text on its plate from the browser's computed colours.
+
 - Map switch (Amendment 7): a round 44 pixel button beside the minimap opens a settings sheet with the Map (Google 3D tiles or Fallback map) and the Hologram screen effect (Off, Low, High). The choice is saved in localStorage and the address (`?map=`, `?fx=`) still wins and shows as locked. Switching the map starts the other provider through the same selection and one-shot fallback rules. The effect level changes on a running Google scene in place, so it costs no Cesium ion request. The sheet notes the Cesium ion quota (about 1,000 root requests per month on the Community plan), disables Google with a plain sentence when the build has no token, needs a hold above 8 km/h like the other controls and closes by itself when the guard turns on. The layout check covers the button size and the open sheet. Effect stays off by default on Google tiles.
 - Holographic route guidance (task 9, awaiting Amendment 7): a cyan hologram look for the 3D scene on both providers behind the `MapProvider` interface (new `setRoute` and `setGuidance`). A translucent route ribbon with brighter rails on the road, floating chevrons that follow the route and bend toward the next turn, a vertical turn beacon with a distance countdown and the turn direction (a DOM label inside the scene, never over the credits strip), and a holographic rider on an original stylised kick scooter with a scanline look and a heading ring and cone. `RouteGuide` in `@waylit/map-provider` builds the corridor and the per frame guidance from the demo route and the simulated GPS.
 - Turn instruction logic in `@waylit/core` (`nextTurn`, `turnPhase`, `directionOf`): the next real turn, its distance in the same rounding as the HUD and a phase (far, approaching, imminent, now). Tested against the `GpsSimulator` countdown, which satisfies brief success criterion 4.
@@ -50,6 +53,15 @@ All notable changes to this project are recorded here. The format follows [Keep 
 - `useDaylight()` and `DaylightProvider` expose the sun, phase, a smooth daylight factor and a warmth value for the 3D lighting task. New screenshots at dawn, noon, sunset and night in `docs/images`.
 
 ### Changed
+
+- HUD redesign (2026-11-26), after the maintainer found the daylight scrim jarring. The scene now fills the screen with nothing darkening it, and the HUD is a few small, quiet pieces of dark glass. Top left, the speed and the next turn share one plate sized to the text: the speed is smaller (`speed` is now `clamp(3rem, 20dvh, 6.5rem)`, digits about 15 percent of the screen height, down from about 30), with `km/h` and the GPS speed under it, and beside it the turn arrow (cyan when the turn is imminent), the distance (`hudTurn` is now `clamp(1.25rem, 8dvh, 2.5rem)`), the street and one quiet line with the time and distance left and the arrival. Top right, a status chip holds the time, temperature and connectivity dot, and the map settings button sits on its own plate beside a slightly smaller minimap. The dock is a little shorter. The map settings sheet is only as tall as its content. The plates and the dock settle in with a short fade (off with reduced motion). Hold to press, the speed guard, the joined centred dock, fullscreen, the credits strip, the beacon label clamp and the Google tiles rules are unchanged. There is no road speed limit data in milestone 1, so no speed limit sign was added; it is a later item for when speed zone data exists.
+- With the visual effect on, the night tint of photographic tiles dims them to about a third and cools them instead of crushing them toward black (from 0.09 to 0.19 up to 0.3 to 0.5).
+- Model policy: this redesign was built with Opus 5.5 at the maintainer's explicit request, as a one-off exception to Amendment 2 (Sonnet 5.5 for all work except the critic). The brief is unchanged.
+
+### Removed
+
+- The daylight driven top scrim (`.wl-scrim`, a dark gradient over the top 60 percent of the screen) and its `scrim` tokens. Text over the scene now sits on small plates (`.wl-plate`, new `plate` tokens, 0.74 at night to 0.84 by day) with a two pixel text edge (`shadow.text` is tighter), and passes WCAG AA over pure white: the lowest ratios are 8.2:1 for primary text, 6.5:1 for secondary text, 4.7:1 for the amber note and 4.8:1 for cyan.
+- The vignette and the horizon haze band from the scene's post process (`vignette`, `hazeStrength`, `hazeColour` and `hazeWidth` in `FxParameters`, and the `u_haze` uniform), so the corners and the middle of the picture stay as bright as the scene. The colour grade, edge glow, scan band and grid are unchanged.
 
 - Hologram review fixes (task 9): the Terms guard test now covers `tile-shader.ts` and the tile event, any `.pick(`, `czm_globeDepthTexture`, `czm_readDepth` and `tileVisible`, and every `ClassificationType` must be `CESIUM_3D_TILE`. A new `LoadGovernor` steps the hologram down on a slow phone whatever the fx level is (fewer chevrons, then no rails volume), after the screen effect when that is on, and `FxGovernor` and `HoloGovernor` now share a `StepDownGovernor` base. `cesium-holo.ts` reuses its scratch objects each frame. The turn beacon counts from the ride session's distance along the route, the same input as the HUD, and the HUD and beacon agree on the departure (HUD shows it at the very start, the beacon never does). The beacon label no longer rises above 28 percent of the scene. Turn guidance tests assert the label sequence never rises and the exact end of route result.
 - The fx post process gained a scan band (both variants) and a ground grid (`high`), driven by new uniforms `u_holo` and `u_motion` and new `FxParameters` fields `scanHalfWidth`, `scanStrength` and `gridStrength`. The scene controller now passes the route to the provider and calls `setGuidance` each frame.
